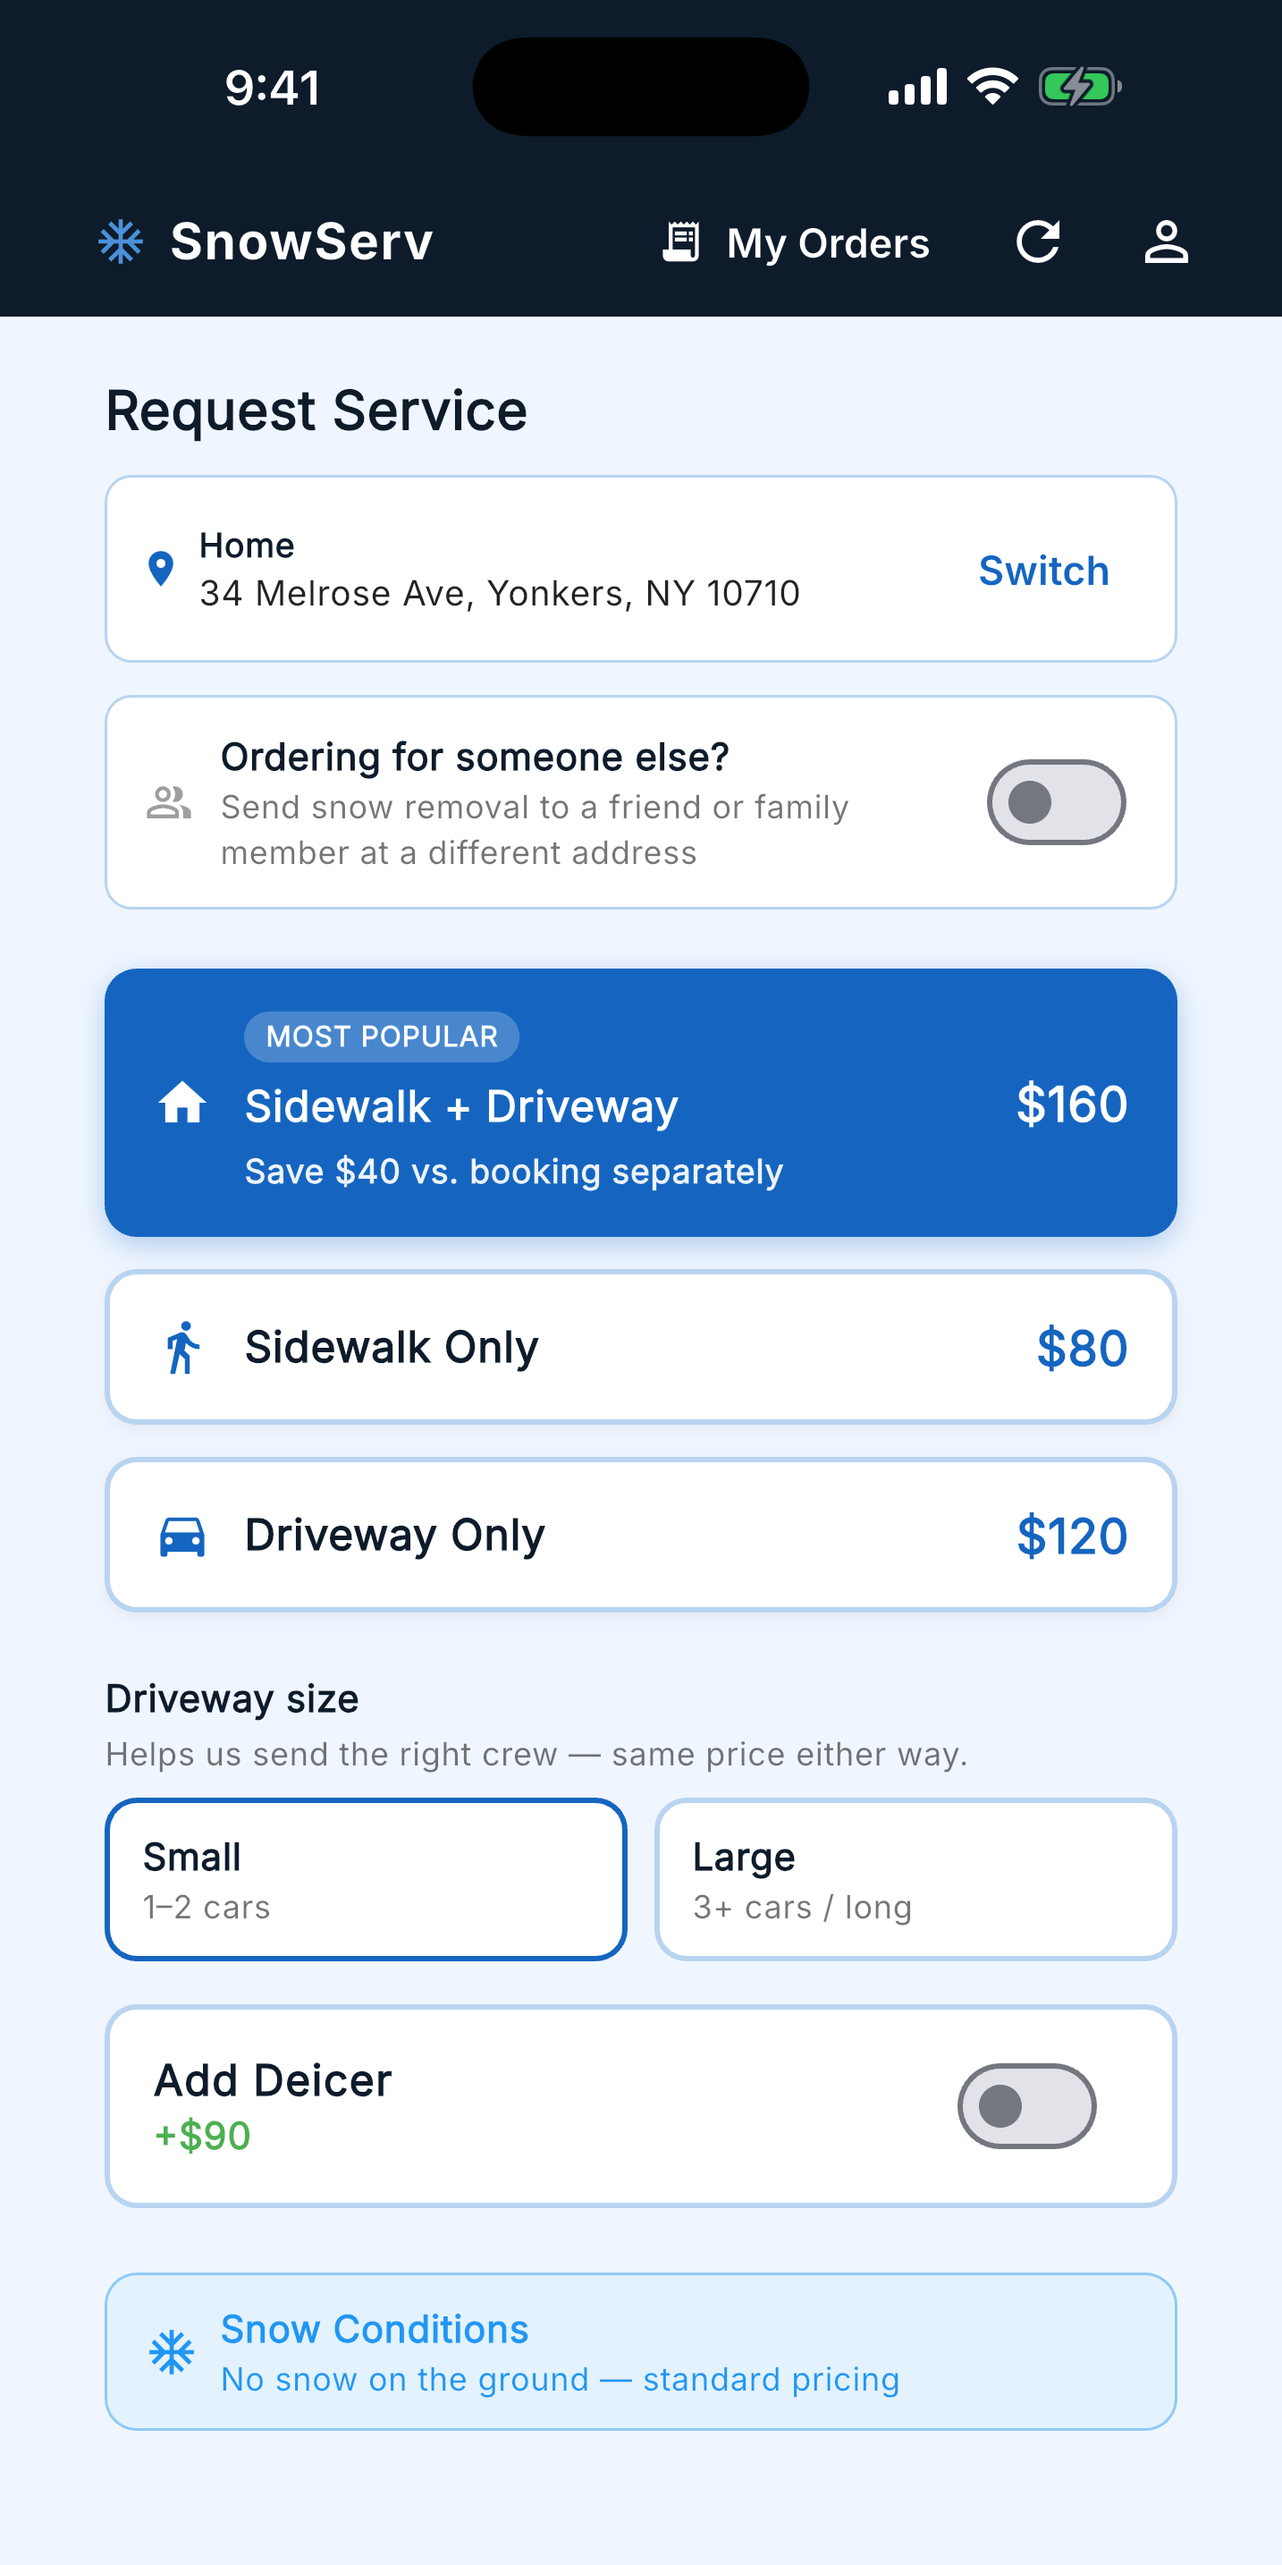
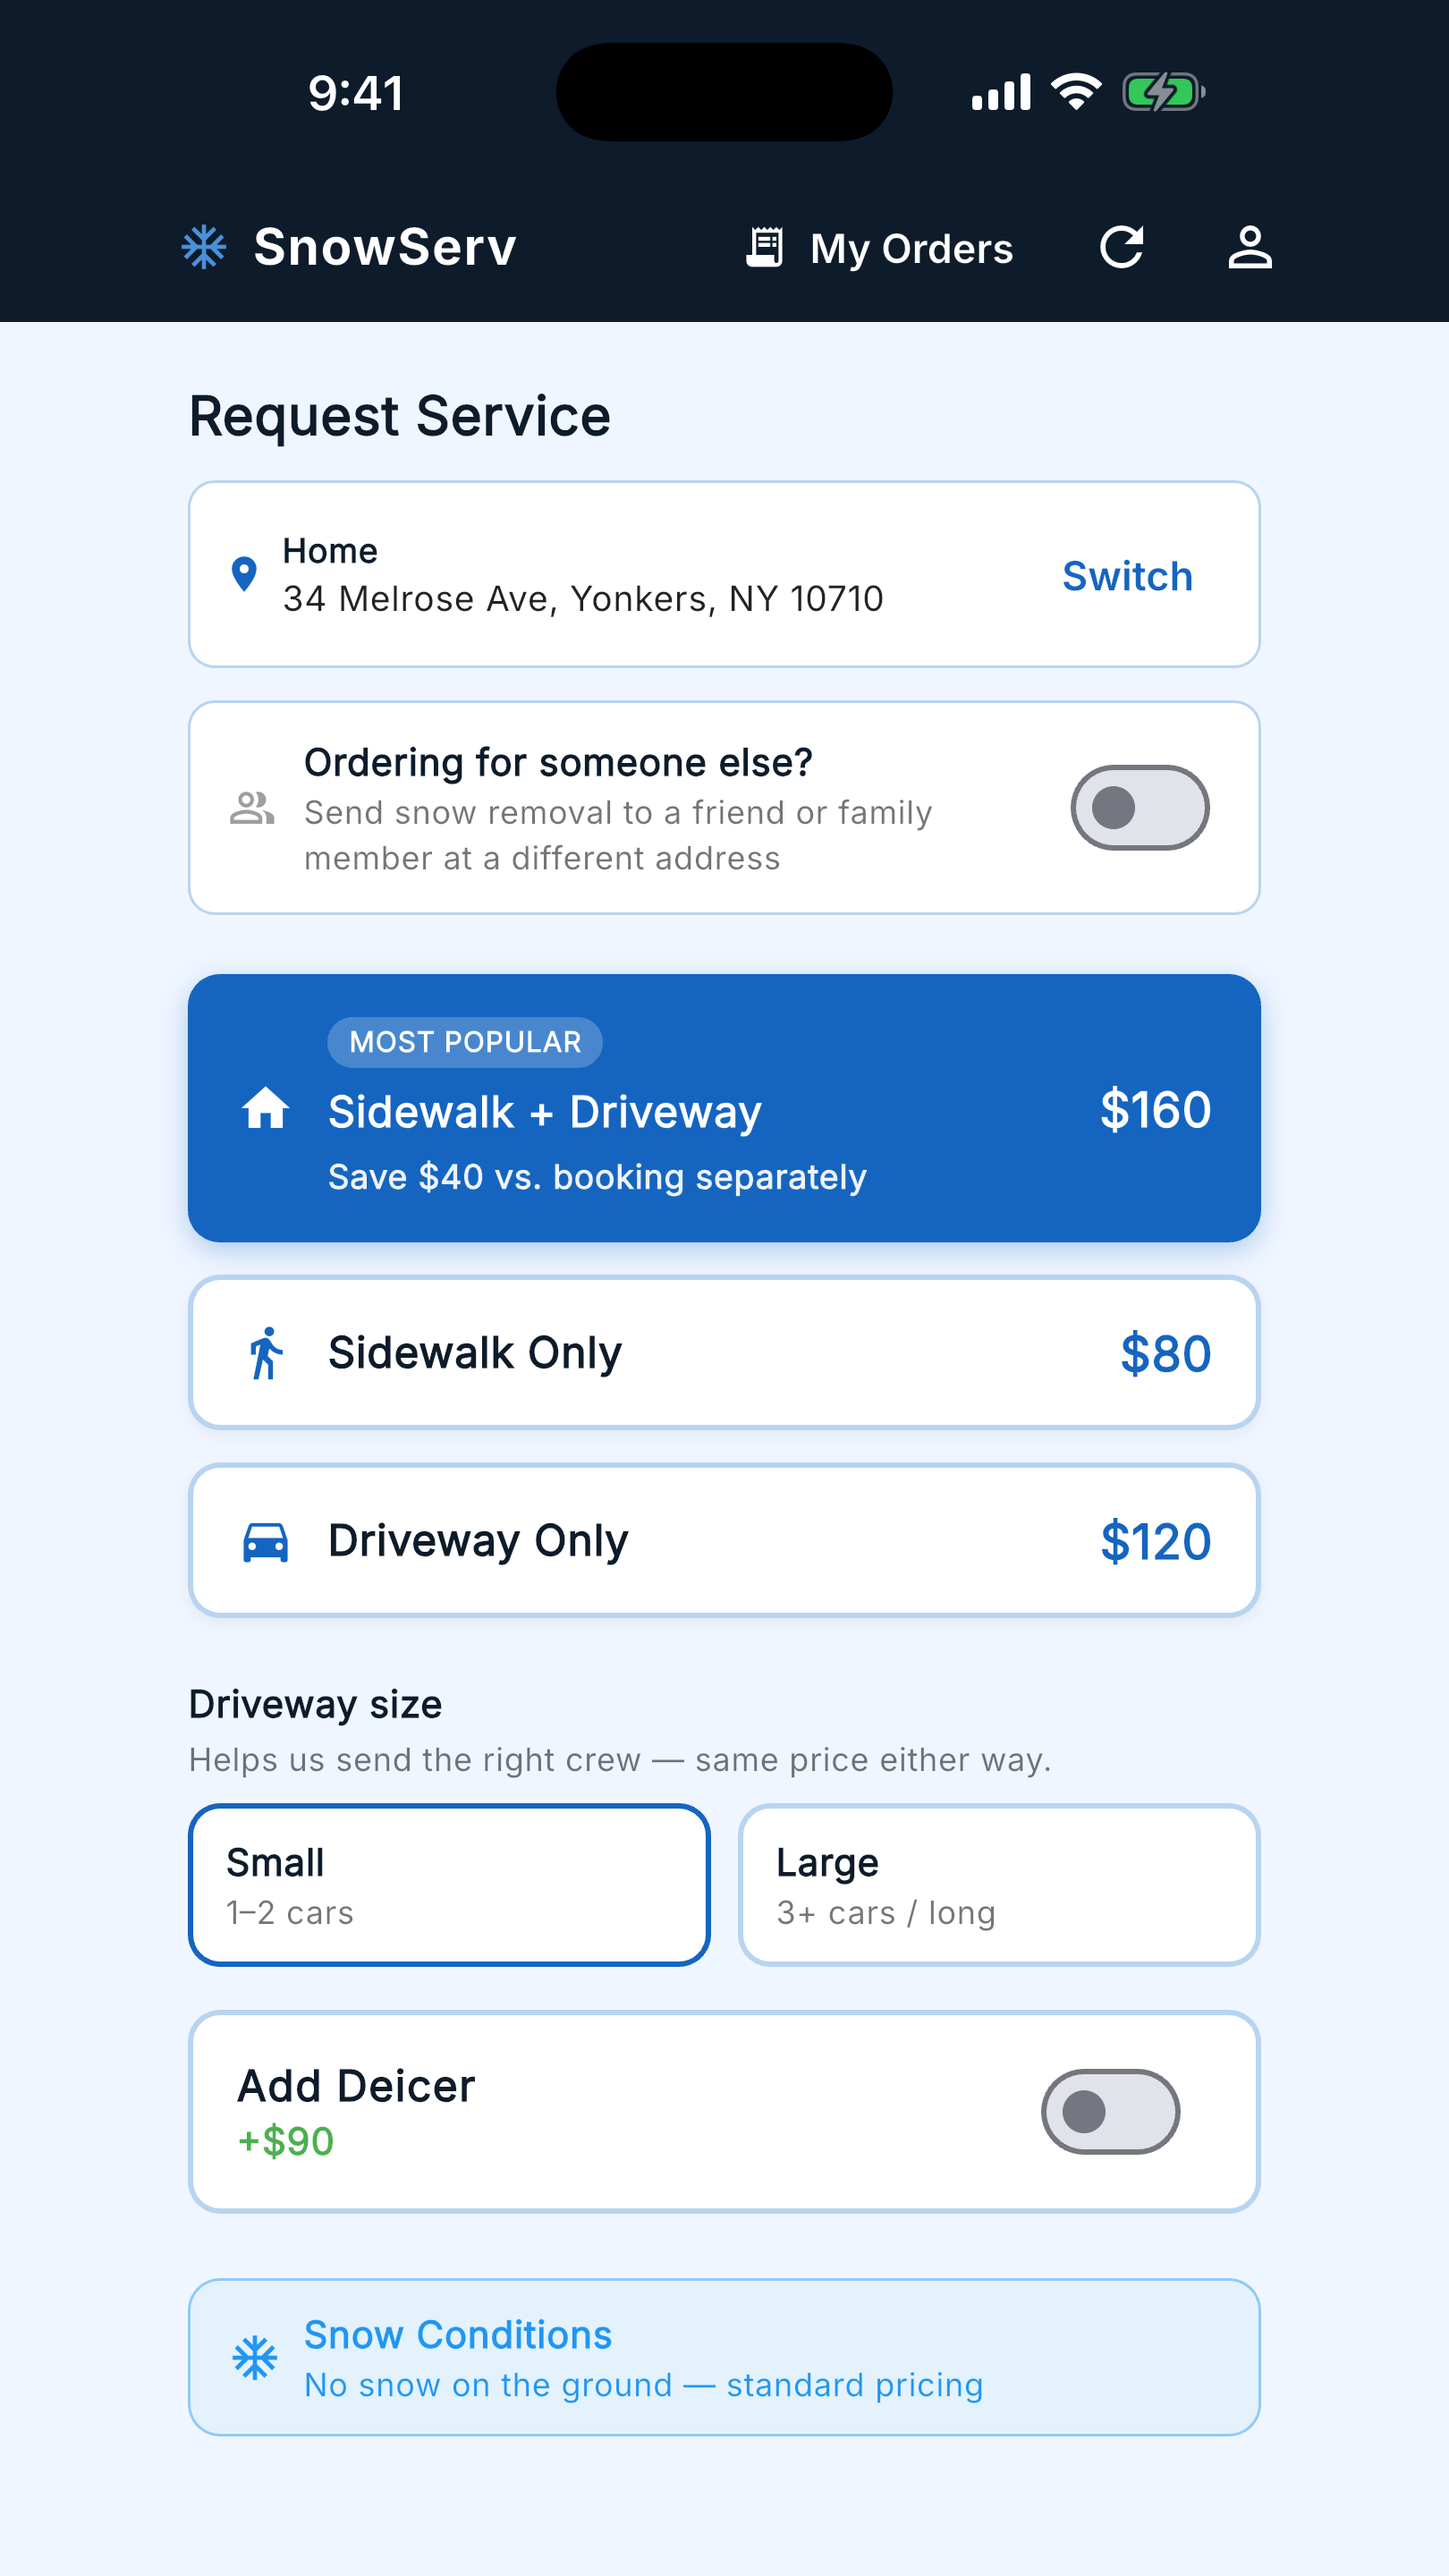
Play screenshots to exactly 9:16 (1620x2880) instead of 2:1
Play applies two separate bars and the first version only cleared one. To upload
at all, the long side may be at most twice the short side — 1434x2868 passed
that. But to be eligible for PROMOTIONAL placement on Play, Google wants 9:16,
at least 1080px, and at least 4 screenshots; a 2:1 image is not 9:16, so the set
was quietly ineligible for featuring.

1620x2880 is exactly 9:16 and still well inside the 2x rule, so it clears both.
Costs 150px of side padding instead of 57px, and since the padding is edge
extension rather than a flat fill it stays invisible.

diff --git a/tools/pad_for_play.py b/tools/pad_for_play.py
@@ -1,32 +1,42 @@
 #!/usr/bin/env python3
-"""Pad iPhone store screenshots so Google Play accepts them.
+"""Pad iPhone store screenshots into the shape Google Play wants.
 
-Play rejects any image whose long side exceeds 2x its short side; a 6.9" iPhone
-capture (1320x2868) is 2.17x. Widen to height/2 by stretching each row's own edge
-pixel outward, which is seamless even across the dark app bar (a flat background
-fill leaves visible bars there).
+Play applies two different bars to phone screenshots:
+  * to UPLOAD at all, the long side may be at most 2x the short side. A 6.9"
+    iPhone capture is 1320x2868 = 2.17x, so the raw iOS files are rejected.
+  * to be eligible for PROMOTIONAL placement, Play wants 9:16 (portrait), at
+    least 1080px, and at least 4 of them.
+
+Targeting 9:16 satisfies both, so that is what this produces: a 1620x2880 canvas
+with the capture centered. The padding is made by stretching each edge row/column
+of the image outward, not by filling with a flat color — a flat fill leaves
+visible bars across the dark app bar, whereas edge extension is invisible.
 
     python3 tools/pad_for_play.py docs/store/ios docs/store/play
 """
 import sys, os
 from PIL import Image
 
+TARGET_W, TARGET_H = 1620, 2880          # exactly 9:16
+
 
 def pad(src_path, dst_path):
     im = Image.open(src_path).convert('RGB')
     w, h = im.size
-    if h <= w * 2:
-        im.save(dst_path)
-        return w, h
-    tw = h // 2
-    left = (tw - w) // 2
-    right = tw - left - w
-    canvas = Image.new('RGB', (tw, h))
-    canvas.paste(im.crop((0, 0, 1, h)).resize((left, h), Image.NEAREST), (0, 0))
-    canvas.paste(im.crop((w - 1, 0, w, h)).resize((right, h), Image.NEAREST), (left + w, 0))
-    canvas.paste(im, (left, 0))
-    canvas.save(dst_path)
-    return tw, h
+    if w > TARGET_W or h > TARGET_H:
+        raise SystemExit('%s is %dx%d, larger than the %dx%d canvas'
+                         % (os.path.basename(src_path), w, h, TARGET_W, TARGET_H))
+    lx, ty = (TARGET_W - w) // 2, (TARGET_H - h) // 2
+    c = Image.new('RGB', (TARGET_W, TARGET_H))
+    # stretch the left and right edge columns outward, then the top and bottom rows
+    c.paste(im.crop((0, 0, 1, h)).resize((lx, h), Image.NEAREST), (0, ty))
+    c.paste(im.crop((w - 1, 0, w, h)).resize((TARGET_W - lx - w, h), Image.NEAREST), (lx + w, ty))
+    c.paste(im, (lx, ty))
+    c.paste(c.crop((0, ty, TARGET_W, ty + 1)).resize((TARGET_W, ty), Image.NEAREST), (0, 0))
+    c.paste(c.crop((0, ty + h - 1, TARGET_W, ty + h)).resize((TARGET_W, TARGET_H - ty - h), Image.NEAREST),
+            (0, ty + h))
+    c.save(dst_path)
+    return lx, ty
 
 
 if __name__ == '__main__':
@@ -34,5 +44,6 @@ if __name__ == '__main__':
     os.makedirs(dst_dir, exist_ok=True)
     for name in sorted(os.listdir(src_dir)):
         if name.lower().endswith('.png'):
-            size = pad(os.path.join(src_dir, name), os.path.join(dst_dir, name))
-            print('%-28s -> %dx%d' % (name, *size))
+            lx, ty = pad(os.path.join(src_dir, name), os.path.join(dst_dir, name))
+            print('%-28s -> %dx%d  (pad %dpx sides, %dpx top/bottom)'
+                  % (name, TARGET_W, TARGET_H, lx, ty))

diff --git a/docs/google_play_listing.md b/docs/google_play_listing.md
@@ -65,12 +65,16 @@ Questions? support@snowserv.app
 - **Phone screenshots:** ✅ **DONE 2026-08-16** — four in **`docs/store/play/`**, upload
   all four. Same four shots as the App Store set (`docs/store/ios/`), described in
   §11 of `docs/app_store_listing.md`.
-  ⚠ They are **1434×2868, not the raw 1320×2868 iOS files** — do not substitute the
-  iOS ones. Play rejects any screenshot whose long side is more than **twice** its
-  short side, and a raw iPhone 6.9" capture is 2.17×. The Play copies carry ~57px of
-  padding on each side, made by stretching each row's own edge pixel outward, so the
-  seam is invisible even across the navy app bar. Any future iPhone capture needs the
-  same treatment — the script is in the 2026-08-16 commit.
+  ⚠ They are **1620×2880, not the raw 1320×2868 iOS files** — do not substitute the
+  iOS ones. Play applies two separate bars, and 9:16 clears both:
+    - to UPLOAD, the long side may be at most **twice** the short side. A raw iPhone
+      6.9" capture is 2.17×, so it is refused outright.
+    - to be eligible for **promotional placement** on Play, it wants 9:16, ≥1080px,
+      and at least 4 shots. 1620×2880 is exactly 9:16, and we have exactly 4.
+  The padding (150px sides, 6px top/bottom) is made by stretching each edge row and
+  column of the capture outward, so the seam is invisible even across the navy app
+  bar — a flat fill leaves visible side bars there. Regenerate any future capture
+  with `python3 tools/pad_for_play.py docs/store/ios docs/store/play`.
 
 ## 4. Contact details + URLs
 - **Email:** support@snowserv.app

diff --git a/docs/simulator_screenshots.md b/docs/simulator_screenshots.md
@@ -90,7 +90,12 @@ xcrun simctl status_bar $MAX override --time "9:41" \
 ## Google Play needs different files
 
 Play rejects any screenshot whose long side is more than **twice** the short side.
-1320×2868 is 2.17×, so the raw iOS captures are **not** usable. Pad the width to
-`height / 2` (1434) by stretching each row's own edge pixel outward — a flat fill
-leaves visible bars across the navy app bar, edge extension is seamless. The
-script that did it is in the 2026-08-16 commit; output lives in `docs/store/play/`.
+1320×2868 is 2.17×, so the raw iOS captures are **not** usable. Separately, Play
+wants **9:16** for an app to be eligible for promotional placement.
+
+`tools/pad_for_play.py` clears both at once by centering the capture on a
+**1620×2880** canvas (exactly 9:16) and stretching each edge row and column
+outward to fill the margin — a flat fill leaves visible bars across the navy app
+bar, edge extension is seamless.
+
+    python3 tools/pad_for_play.py docs/store/ios docs/store/play

diff --git a/docs/app_store_listing.md b/docs/app_store_listing.md
@@ -144,8 +144,8 @@ every smaller iPhone. Upload all four to the 6.9" slot; no other size is require
 | 3 | `03_instant_quote.png` | "See your price before you sign up" → real Yonkers prices, no account |
 | 4 | `04_my_orders.png` | Order history with total spent, rating, and a receipt |
 
-Play versions (same four, padded to 1434×2868) are in `docs/store/play/` — see the
-Play listing doc for why the padding exists.
+Play versions (same four, padded to 1620×2880 = 9:16) are in `docs/store/play/` —
+see the Play listing doc for why the padding exists.
 
 Deliberately not shot: an **active job / tracking** screen, which needs a live job.
 Staging one meant writing a fake job to the production DB purely for a picture, and
